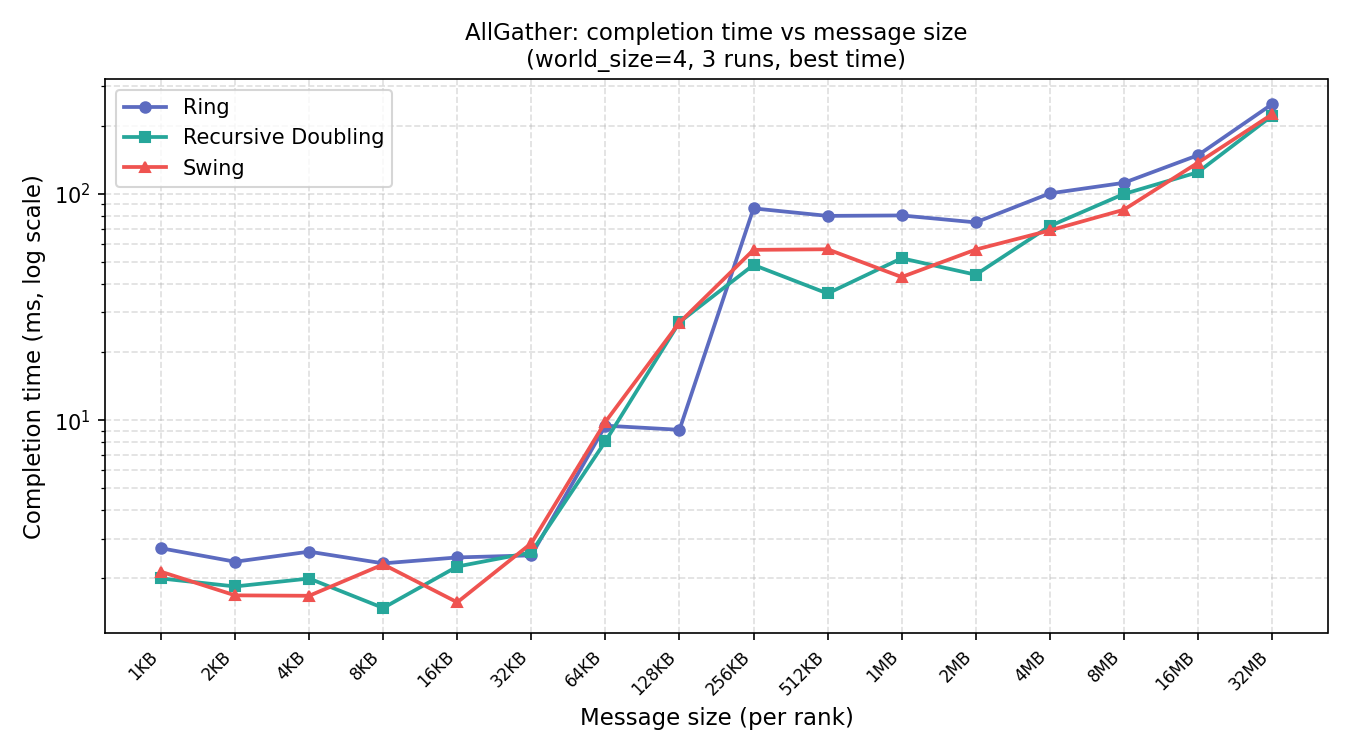
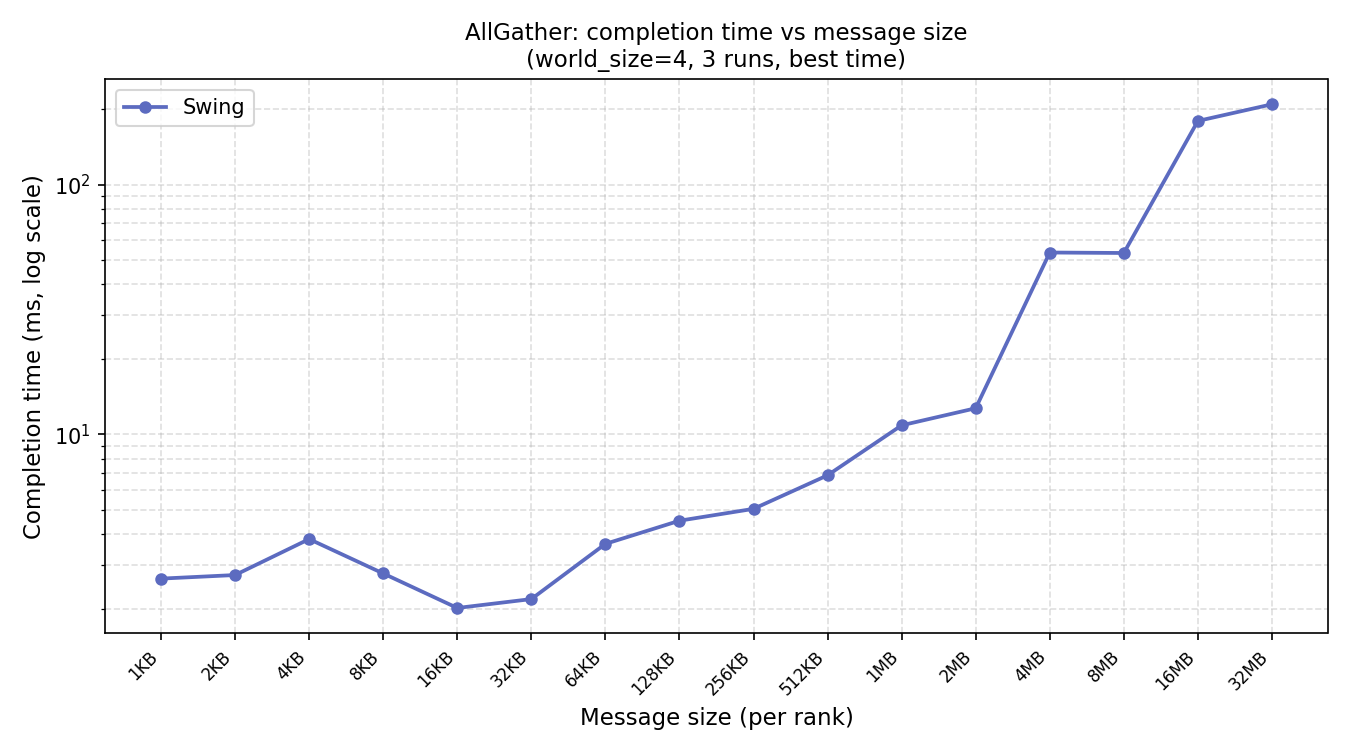
Fix Swing Algo

diff --git a/hw5/allGatherBenchmark.py b/hw5/allGatherBenchmark.py
@@ -45,6 +45,7 @@ FIXED_MSG_BYTES  = 1024*1024  # 1MB, used in Plot 2
 N_REPEATS = 3
 
 PORT = 29500
+_port_counter = PORT  # incremented per measure() call to avoid TIME_WAIT conflicts
 
 ALGORITHMS = {
     "Ring":               ring_allgather,
@@ -88,11 +89,13 @@ def benchmark_worker(rank, world_size, algo_name, chunk_size, result_list, port)
     dist.destroy_process_group()
 
 
-def measure(algo_name, world_size, msg_bytes, port=PORT):
+def measure(algo_name, world_size, msg_bytes):
     """
     Spawn world_size processes, run the algorithm, return elapsed seconds.
     Returns None if the config is invalid (e.g. recursive doubling + non-pow2).
+    Each call uses a fresh port to avoid Windows TIME_WAIT socket conflicts.
     """
+    global _port_counter
     # Recursive doubling only works for power-of-2 world sizes
     if algo_name == "Recursive Doubling" and (world_size & (world_size - 1)) != 0:
         return None
@@ -101,6 +104,9 @@ def measure(algo_name, world_size, msg_bytes, port=PORT):
     chunk_size = msg_bytes // 4
     if chunk_size == 0:
         return None
+
+    _port_counter += 1
+    port = _port_counter
 
     manager = mp.Manager()
     result  = manager.list([None])
@@ -178,7 +184,7 @@ def plot_vs_message_size():
 
     path = "allgather_vs_msgsize.png"
     fig.savefig(path, dpi=150)
-    print(f"\n  Saved → {path}")
+    print(f"\n  Saved -> {path}")
     plt.close(fig)
 
 
@@ -194,7 +200,7 @@ def plot_vs_ranks():
     for world_size in RANK_COUNTS:
         print(f"  world_size={world_size}")
         for algo_name in ALGORITHMS:
-            t = measure(algo_name, world_size, FIXED_MSG_BYTES, port=PORT + 1)
+            t = measure(algo_name, world_size, FIXED_MSG_BYTES)
             if t is not None:
                 results[algo_name].append((world_size, t * 1000))  # ms
                 print(f"    {algo_name:22s}: {t*1000:.2f} ms")
@@ -234,7 +240,7 @@ def plot_vs_ranks():
 
     path = "allgather_vs_ranks.png"
     fig.savefig(path, dpi=150)
-    print(f"\n  Saved → {path}")
+    print(f"\n  Saved -> {path}")
     plt.close(fig)
 
 
@@ -243,7 +249,18 @@ def plot_vs_ranks():
 # =============================================================================
 
 if __name__ == "__main__":
-    # Required for mp.spawn on some platforms
+    import argparse as _ap
+    _parser = _ap.ArgumentParser()
+    _parser.add_argument("--algos", nargs="+", choices=list(ALGORITHMS.keys()),
+                         default=list(ALGORITHMS.keys()),
+                         help="Which algorithms to benchmark (default: all)")
+    _args = _parser.parse_args()
+
+    # Filter global ALGORITHMS dict to only requested ones
+    for _k in list(ALGORITHMS.keys()):
+        if _k not in _args.algos:
+            del ALGORITHMS[_k]
+
     mp.set_start_method("spawn", force=True)
 
     plot_vs_message_size()

diff --git a/hw5/allGather.py b/hw5/allGather.py
@@ -126,15 +126,10 @@ def recursive_doubling_allgather(tensor: torch.Tensor) -> torch.Tensor:
             dist.send(send_buf, dst=partner)
         print(f"[Rank {rank}][RecDouble] Step {step}: partner={partner}, send/recv took {(time.perf_counter()-t_comm)*1000:.2f} ms")
 
-        # partner_start = partner * chunk_size
-        # if partner_start < current_start:
-        #     gathered[partner_start : partner_start + current_size] = recv_buf
-        #     current_start = partner_start
-        # else:
-        #     gathered[current_start + current_size : current_start + 2 * current_size] = recv_buf
-
-        # current_size *= 2
-        partner_start = partner * chunk_size
+        # Partner's accumulated block starts at the distance-aligned floor of partner's rank.
+        # Using partner * chunk_size is wrong after step 0 because the partner has already
+        # gathered neighbors and its data no longer starts at its own index.
+        partner_start = ((partner >> step) << step) * chunk_size
         total_size    = world_size * chunk_size
 
         if partner_start < current_start:
